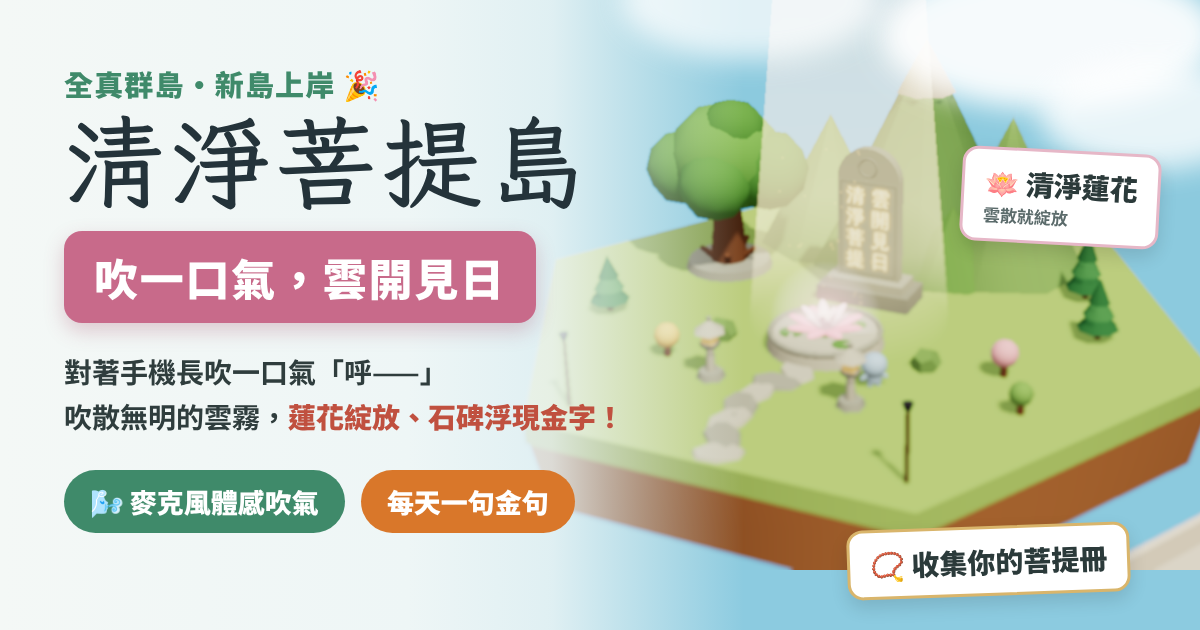
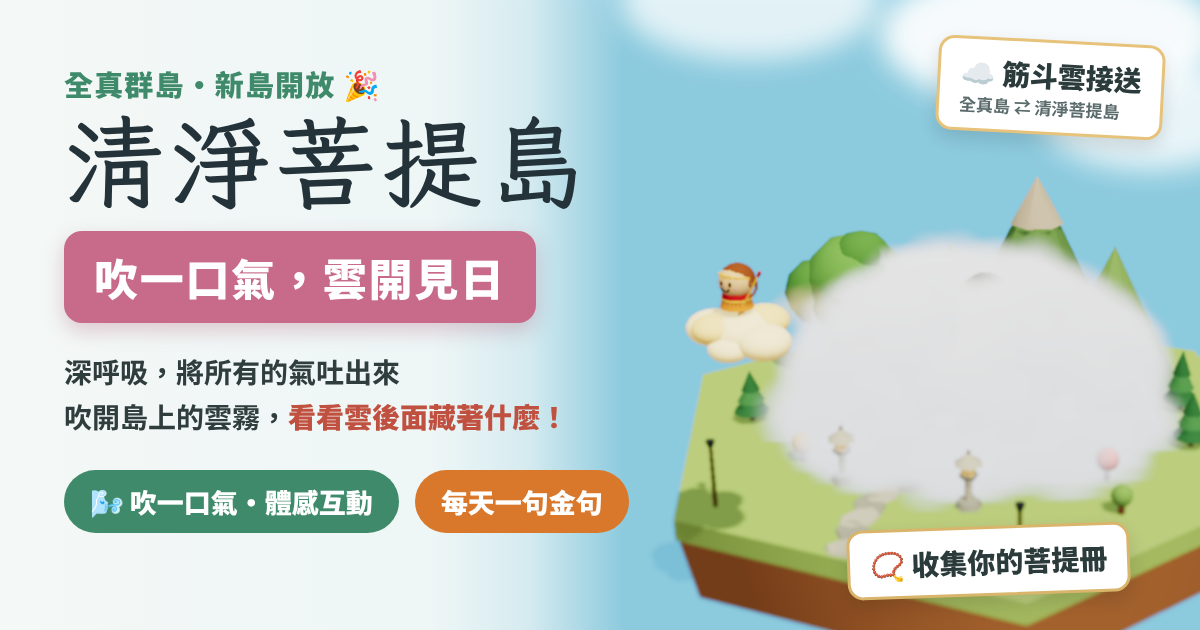
全真群島 v261105.01：清淨菩提島正式開放、新增筋斗雲（Q 版齊天大聖）往返全真島
- PT_LIVE 改成 true：拆掉施工圍籬，徽章露出、造訪統計開始記錄
- 筋斗雲：全真島 ⇄ 清淨菩提島來回飛、越過高鐵橋；雲上是 Q 版齊天大聖（同一個豆子身基底）；雲尾像排氣一樣噴出煙霧後消散；點了就飛到清淨菩提島
- 分享頁 islands/puti/ 換新預覽圖（og-puti.png?v=2）：雲霧還蓋著島、筋斗雲在旁邊，不劇透；說明文字同步

Claude-Session: https://claude.ai/code/session_01CYjxtCchQiC7GkoK3dAJL5

diff --git a/islands/index.html b/islands/index.html
@@ -634,7 +634,7 @@
   <p class="count hits-count" id="hitsLine">👣 已經有 <img id="hitsImg" alt="累計造訪人次" height="18" src="https://hits.sh/steven4dev.github.io/yiguandao-2027-course/islands.svg?style=flat-square&amp;label=%E4%BA%BA%E6%AC%A1&amp;color=d9a43a&amp;labelColor=3a3f5a" onerror="this.parentNode.hidden = true"> 來逛過群島</p>
   <div class="boards"><a class="board" href="https://forms.gle/PG7yAsyz1r4unXXZ8" target="_blank" rel="noopener">🛶 我要登島</a><button class="board board-visit" id="visitBtn" type="button">👀 我要觀摩</button></div>
   <span class="status" id="status" data-state="backup" role="button" tabindex="0" title="點一下重新讀取"><i></i><span id="statusText">讀取資料中…</span></span>
-  <span class="ver">v261104.02</span>
+  <span class="ver">v261105.01</span>
   </div></div>
 </div>
 
@@ -4878,7 +4878,7 @@ addEventListener('keydown', (e) => { if (e.key === 'Escape' && !$('jsScroll').hi
 // 跟濟世靈山島一樣先封起來：一般人看到施工圍籬和「施工中」，不能吹。
 // 測試的人在網址加上 ?puti=測試碼（例如 islands/?puti=ptq-5m2w#puti）打開測試模式，記在那支手機上；?puti=off 關掉。
 // 正式開放時把 PT_LIVE 改成 true，圍籬就拆掉、大家都能吹。
-const PT_LIVE = false;
+const PT_LIVE = true;   // 2026/11/05 正式開放
 const PT_TEST_TOKEN = 'ptq-5m2w', PT_TEST_KEY = 'islands-puti-test';
 const ptTester = (() => {
   try {
@@ -5539,6 +5539,122 @@ document.getElementById('ptCard').addEventListener('click', (e) => {
 });
 addEventListener('keydown', (e) => { if (e.key === 'Escape' && !$('ptCard').hidden) ptCloseCard(); });
 
+/* ---------- 筋斗雲：一朵金色的雲在全真島和清淨菩提島之間來回飛，雲上站著一位 Q 版的齊天大聖（跟島上夥伴同一個豆子身基底） ----------
+   （孫悟空出自古典小說《西遊記》；這裡是群島自己的 Q 版造型：豆子身、金箍、虎皮裙、金箍棒）
+   去程從全真島後方出發，往上拱過高鐵橋，停在菩提島的小徑上空；停一下再飛回來。點雲或大聖就飛到清淨菩提島 */
+const kinto = new THREE.Group();
+kinto.userData.noMerge = true;
+kinto.visible = ptOpen;
+scene.add(kinto);
+const kintoHit = [];
+{
+  // 雲：一團暖白帶金的雲朵，後面拖一條捲捲的雲尾
+  const cloudM = new THREE.MeshLambertMaterial({ color: '#fff4cf', emissive: '#ffd36a', emissiveIntensity: 0.28 });
+  const cloudM2 = new THREE.MeshLambertMaterial({ color: '#ffe9a8', emissive: '#f2b84a', emissiveIntensity: 0.22 });
+  const CL = new THREE.Group(); kinto.add(CL); kinto.userData.cloud = CL;
+  for (const [x, y, z, r, m] of [[0, 0, 0, 1.05, cloudM], [0.95, -0.08, 0.15, 0.78, cloudM], [-0.95, -0.1, 0.1, 0.8, cloudM], [0.35, 0.2, -0.6, 0.72, cloudM2], [-0.4, 0.15, 0.65, 0.66, cloudM2], [0.2, -0.25, 0.75, 0.6, cloudM]]) {
+    const s = mesh(new THREE.SphereGeometry(r, 16, 12), m, x, y, z, CL, false); s.scale.y = 0.62;
+  }
+  // 齊天大聖：臉是膚色、頭頂和後腦勺一圈棕色毛、兩隻圓耳朵、金箍、虎皮裙、金箍棒、一條捲尾巴
+  const wk = figure(lam('#f3d2a2'), '', false);
+  wk.position.set(0, 0.62, 0.15); wk.scale.setScalar(1.45); kinto.add(wk); kinto.userData.wk = wk;   // 腳踩在雲朵上緣 kinto.add(wk); kinto.userData.wk = wk;
+  const g = wk.children[0], fur = lam('#9a5b2e'), gold = lam('#f2c14e', { emissive: '#8a5a00', emissiveIntensity: 0.35 });
+  const cap = mesh(new THREE.SphereGeometry(0.54, 22, 12, 0, Math.PI * 2, 0, Math.PI * 0.42), fur, 0, 0.93, -0.06, g, false); cap.rotation.x = -0.55;
+  mesh(new THREE.SphereGeometry(0.5, 18, 12, 0, Math.PI * 2, Math.PI * 0.35, Math.PI * 0.4), fur, 0, 0.98, -0.08, g, false).rotation.x = Math.PI;   // 後腦勺
+  for (const sx of [-1, 1]) { const e = mesh(dotGeo, fur, sx * 0.5, 0.97, 0, g, false); e.scale.set(0.09, 0.12, 0.07); mesh(dotGeo, lam('#e8b08a'), sx * 0.53, 0.97, 0.02, g, false).scale.set(0.05, 0.07, 0.04); }
+  const band = mesh(new THREE.TorusGeometry(0.47, 0.035, 8, 32), gold, 0, 1.12, 0.02, g, false); band.rotation.x = Math.PI / 2 - 0.22;   // 金箍
+  mesh(new THREE.TorusGeometry(0.06, 0.02, 6, 12), gold, -0.1, 1.2, 0.47, g, false);   // 金箍前面的小捲
+  mesh(new THREE.TorusGeometry(0.06, 0.02, 6, 12), gold, 0.1, 1.2, 0.47, g, false);
+  // 上衣（紅）＋虎皮裙（橘底黑紋）＋黃腰帶
+  const tigerTex = canvasTex(128, 32, (c) => { c.fillStyle = '#f0a03a'; c.fillRect(0, 0, 128, 32); c.fillStyle = '#3a2410'; for (let i = 0; i < 8; i++) { c.beginPath(); c.moveTo(i * 16 + 2, 0); c.lineTo(i * 16 + 8, 0); c.lineTo(i * 16 + 5, 22); c.fill(); } }, true);
+  mesh(new THREE.CylinderGeometry(0.4, 0.44, 0.28, 24, 1, true), new THREE.MeshLambertMaterial({ color: '#c8312b', side: THREE.DoubleSide }), 0, 0.56, 0, g, false);
+  const skirt = mesh(new THREE.CylinderGeometry(0.42, 0.5, 0.26, 24, 1, true), new THREE.MeshLambertMaterial({ map: tigerTex, side: THREE.DoubleSide }), 0, 0.3, 0, g, false);
+  skirt.material.map.repeat.set(3, 1);
+  mesh(new THREE.TorusGeometry(0.42, 0.04, 6, 24), lam('#f2c14e'), 0, 0.44, 0, g, false).rotation.x = Math.PI / 2;
+  // 尾巴：從屁股往後翹再捲起來
+  const tailPts = [[0, 0.3, -0.35], [0, 0.25, -0.65], [0.05, 0.45, -0.85], [0.08, 0.75, -0.8], [0.02, 0.85, -0.6]].map(([x, y, z]) => new THREE.Vector3(x, y, z));
+  mesh(new THREE.TubeGeometry(new THREE.CatmullRomCurve3(tailPts), 20, 0.045, 6), fur, 0, 0, 0, g, false);
+  // 金箍棒：右手斜握，兩頭紅色；樞紐在手上，停靠時會轉棒子
+  const staff = new THREE.Group(); staff.position.set(0.48, 0.5, 0.18); g.add(staff); kinto.userData.staff = staff;
+  mesh(new THREE.CylinderGeometry(0.035, 0.035, 2.1, 8), gold, 0, 0, 0, staff, false);
+  for (const y of [-1.02, 1.02]) mesh(new THREE.CylinderGeometry(0.05, 0.05, 0.16, 8), lam('#c8312b'), 0, y, 0, staff, false);
+  staff.rotation.z = -0.5;
+  wk.userData.arms[1].rotation.z = 0.2;   // 右手往前舉著棒子
+  wk.userData.arms[0].rotation.z = -1.9;  // 左手舉高，像在遠眺（手搭涼棚）
+  kinto.traverse((m) => { if (m.isMesh) { kintoHit.push(m); m.castShadow = true; } });
+}
+// 雲尾：像汽車排氣一樣，從雲後面一陣一陣噴出柔邊的煙霧，往後飄、越散越開、越來越淡，最後消散（不黏在雲上）
+const kintoSmokeTex = canvasTex(64, 64, (c) => { const gr = c.createRadialGradient(32, 32, 0, 32, 32, 32); gr.addColorStop(0, 'rgba(255,248,225,0.9)'); gr.addColorStop(0.45, 'rgba(255,240,205,0.45)'); gr.addColorStop(1, 'rgba(255,240,205,0)'); c.fillStyle = gr; c.fillRect(0, 0, 64, 64); });
+const kintoPuffs = Array.from({ length: 64 }, () => {
+  const m = new THREE.Sprite(new THREE.SpriteMaterial({ map: kintoSmokeTex, color: '#fff6dc', transparent: true, opacity: 0, depthWrite: false }));
+  m.visible = false; scene.add(m);
+  return { m, age: 9, life: 1, vel: new THREE.Vector3(), size: 1, spin: 0 };
+});
+let kintoPuffI = 0, kintoPuffAt = 0;
+// 航線：全真島後方上空 ⇄ 菩提島小徑上空；中段往上拱，越過高鐵橋和火車
+const KINTO_A = new THREE.Vector3(), KINTO_B = new THREE.Vector3();
+{
+  const dx = ptIsl.x - TEMPLE.x, dz = ptIsl.z - TEMPLE.z, d = Math.hypot(dx, dz), ux = dx / d, uz = dz / d;
+  KINTO_A.set(TEMPLE.x + ux * 13.5, 9, TEMPLE.z + uz * 13.5);
+  KINTO_B.set(ptIsl.x - ux * 7.5, 6.5, ptIsl.z - uz * 7.5);
+}
+const KLEG = 14, KDWELL = 4, KCYCLE = 2 * (KLEG + KDWELL), KARC = 10;
+const kintoPos = (k, out) => out.lerpVectors(KINTO_A, KINTO_B, k).setY(KINTO_A.y + (KINTO_B.y - KINTO_A.y) * k + Math.sin(k * Math.PI) * KARC);
+const kintoTmp = new THREE.Vector3(), kintoAhead = new THREE.Vector3();
+kintoPos(0, kinto.position);
+kinto.rotation.y = Math.atan2(KINTO_B.x - KINTO_A.x, KINTO_B.z - KINTO_A.z);
+animators.push((t, dt = 1 / 60) => {
+  if (!kinto.visible) return;
+  const c = (t + 2) % KCYCLE;   // 錯開一點，不要剛打開網頁就停著
+  let k, back = false, moving = true;
+  if (c < KDWELL) { k = 0; moving = false; }
+  else if (c < KDWELL + KLEG) k = smooth((c - KDWELL) / KLEG);
+  else if (c < 2 * KDWELL + KLEG) { k = 1; back = true; moving = false; }
+  else { k = 1 - smooth((c - 2 * KDWELL - KLEG) / KLEG); back = true; }
+  kintoPos(k, kinto.position);
+  kinto.position.y += Math.sin(t * 2.2) * 0.25;   // 雲上下輕輕浮動
+  // 朝著要去的方向；爬升、下降時雲頭跟著仰、俯
+  kintoPos(Math.min(1, Math.max(0, k + (back ? -0.01 : 0.01))), kintoAhead);
+  const yaw = Math.atan2(KINTO_B.x - KINTO_A.x, KINTO_B.z - KINTO_A.z) + (back ? Math.PI : 0);
+  kinto.rotation.y = yaw;
+  const pitch = moving ? -Math.atan2(kintoAhead.y - kinto.position.y + Math.sin(t * 2.2) * 0.25, Math.hypot(kintoAhead.x - kinto.position.x, kintoAhead.z - kinto.position.z) + 1e-4) * 0.6 : 0;
+  kinto.rotation.x = THREE.MathUtils.damp(kinto.rotation.x, pitch, 4, 1 / 60);
+  kinto.rotation.z = Math.sin(t * 1.3) * 0.05;
+  const cl = kinto.userData.cloud; cl.rotation.y = Math.sin(t * 0.8) * 0.08;
+  // 停靠時大聖轉金箍棒、左手放下來揮一揮；飛行時手搭涼棚往前看
+  const u = kinto.userData, wk = u.wk;
+  if (moving) { u.staff.rotation.set(0, 0, -0.5); wk.userData.arms[0].rotation.z = THREE.MathUtils.damp(wk.userData.arms[0].rotation.z, -1.9, 6, 1 / 60); wk.rotation.y = 0; }
+  else { u.staff.rotation.set(0, 0, -0.5 + t * 6); wk.userData.arms[0].rotation.z = -2.4 + Math.sin(t * 8) * 0.35; wk.rotation.y = Math.sin(t * 0.7) * 0.5; }
+  // 飛行時從雲後面噴出煙霧：剛噴出來小而濃，往後、往外飄開，越來越大、越來越淡。
+  // 用實際經過的時間算：畫面卡頓、兩格之間雲飛得比較遠時，在中間補噴幾陣，煙霧才會連成一條
+  const kdt = Math.min(0.25, Math.max(0, t - (kinto.userData.lastT ?? t))); kinto.userData.lastT = t;
+  const kPrev = kinto.userData.prev || (kinto.userData.prev = kinto.position.clone());
+  if (moving) {
+    const n = Math.min(6, Math.floor((t - kintoPuffAt) / 0.035));
+    for (let i = 1; i <= n; i++) {
+      const p = kintoPuffs[kintoPuffI++ % kintoPuffs.length], f = i / n;
+      kintoTmp.set((Math.random() - 0.5) * 0.5, -0.1 + (Math.random() - 0.5) * 0.3, -1.6).applyEuler(kinto.rotation).add(kintoAhead.lerpVectors(kPrev, kinto.position, f));
+      p.m.position.copy(kintoTmp);
+      p.vel.set((Math.random() - 0.5) * 0.8, 0.15 + Math.random() * 0.3, -1.2 - Math.random() * 0.8).applyEuler(kinto.rotation);
+      p.age = (1 - f) * kdt; p.life = 1.1 + Math.random() * 0.6; p.size = 0.7 + Math.random() * 0.4; p.m.visible = true;
+      p.m.material.rotation = Math.random() * 6.28; p.spin = (Math.random() - 0.5) * 0.8;
+    }
+    if (n) kintoPuffAt = t;
+  } else kintoPuffAt = t;
+  kPrev.copy(kinto.position);
+  for (const p of kintoPuffs) {
+    if (!p.m.visible) continue;
+    p.age += kdt;
+    const a = p.age / p.life;
+    if (a >= 1) { p.m.visible = false; continue; }
+    p.m.position.addScaledVector(p.vel, kdt);
+    p.vel.multiplyScalar(Math.pow(0.16, kdt));   // 噴出去後慢慢減速、停在空中散掉
+    p.m.scale.setScalar(p.size * (1 + a * 2.6));
+    p.m.material.rotation += p.spin * kdt;
+    p.m.material.opacity = 0.7 * Math.min(1, a * 6) * (1 - a) * (1 - a);
+  }
+});
+
 function addTag(isl, text, cls, h, onClick = () => select(isl.key)) {
   const b = document.createElement('button');
   b.className = 'tag ' + cls;
@@ -6149,7 +6265,7 @@ renderer.domElement.addEventListener('pointermove', (e) => {
     hoverQueued = false;
     ndc.set((e.clientX / innerWidth) * 2 - 1, -(e.clientY / innerHeight) * 2 + 1);
     ray.setFromCamera(ndc, camera);
-    renderer.domElement.style.cursor = ray.intersectObjects(cadreHit.concat(plazaHit, raftHit, partyHit, lookoutHit, teacherHit, masterHit, bottleHit, visitorHit), false).length ? 'pointer' : '';
+    renderer.domElement.style.cursor = ray.intersectObjects(cadreHit.concat(plazaHit, raftHit, kintoHit, partyHit, lookoutHit, teacherHit, masterHit, bottleHit, visitorHit), false).length ? 'pointer' : '';
   });
 });
 renderer.domElement.addEventListener('pointerup', (e) => {
@@ -6158,6 +6274,7 @@ renderer.domElement.addEventListener('pointerup', (e) => {
   ray.setFromCamera(ndc, camera);
   // 先打到任何物件，再往上找它屬於哪座島
   if (ray.intersectObjects(raftHit, false).length) { openSignup(); return; }
+  if (kinto.visible && ray.intersectObjects(kintoHit, false).length) { ptGc('動作/筋斗雲'); select('puti'); return; }   // 筋斗雲：飛到清淨菩提島
   // 中一島的涼亭＝凝聚晚會報名處：報名期間點了開報名表，截止後就打開中一島的介紹
   if (ray.intersectObjects(partyHit, false).length) { if (zyIsl.formOpen) window.open(PARTY_FORM, '_blank', 'noopener'); else select('zhongyi'); return; }
   const bh = ray.intersectObjects(bottleHit, false)[0];
@@ -7814,7 +7931,7 @@ const ease = (x) => (x < 0.5 ? 4 * x * x * x : 1 - Math.pow(-2 * x + 2, 3) / 2);
    原本要畫四千多次的場景，合併後少掉一大半，手機（例如 iPhone）會順很多 */
 const NO_MERGE_KEYS = ['ring', 'arms', 'slot', 'person', 'teacher', 'master', 'bottle', 'noMerge', 'detail'];
 function staticMerge() {
-  const hits = new Set([cadreHit, plazaHit, raftHit, partyHit, lookoutHit, teacherHit, masterHit, bottleHit, visitorHit].flat());
+  const hits = new Set([cadreHit, plazaHit, raftHit, kintoHit, partyHit, lookoutHit, teacherHit, masterHit, bottleHit, visitorHit].flat());
   const visChain = (o) => { for (let x = o; x; x = x.parent) if (!x.visible) return false; return true; };
   const cand = [];
   scene.traverse((o) => {

diff --git a/islands/puti/index.html b/islands/puti/index.html
@@ -5,18 +5,18 @@
 <meta name="viewport" content="width=device-width, initial-scale=1">
 <meta name="robots" content="noindex, nofollow">
 <title>清淨菩提島｜全真群島</title>
-<meta name="description" content="全真群島新島上岸：清淨菩提島（雲開見日洲）。對著手機長吹一口氣，吹散無明的雲霧，蓮花綻放、石碑浮現金字，每天領一句破關金句。">
+<meta name="description" content="全真群島新島開放：清淨菩提島（雲開見日洲）。深呼吸，將所有的氣吐出來，吹開島上無明的雲霧，看看雲後面藏著什麼，每天領一句破關金句。">
 <meta property="og:type" content="website">
 <meta property="og:site_name" content="全真群島・2027 全真社青">
 <meta property="og:title" content="吹一口氣，雲開見日｜全真群島・清淨菩提島">
-<meta property="og:description" content="對著手機長吹一口氣「呼——」，把遮住靈山的雲霧吹散：蓮花綻放、石碑浮現金字，領一句破關金句，收集你的菩提冊。">
+<meta property="og:description" content="深呼吸，將所有的氣吐出來，吹向手機前島上的雲霧——雲後面藏著什麼？吹開就知道。每天一句破關金句，收集你的菩提冊；全真島還有筋斗雲接送。">
 <meta property="og:url" content="https://steven4dev.github.io/yiguandao-2027-course/islands/puti/">
-<meta property="og:image" content="https://steven4dev.github.io/yiguandao-2027-course/islands/puti/og-puti.png?v=1">
-<meta property="og:image:secure_url" content="https://steven4dev.github.io/yiguandao-2027-course/islands/puti/og-puti.png?v=1">
+<meta property="og:image" content="https://steven4dev.github.io/yiguandao-2027-course/islands/puti/og-puti.png?v=2">
+<meta property="og:image:secure_url" content="https://steven4dev.github.io/yiguandao-2027-course/islands/puti/og-puti.png?v=2">
 <meta property="og:image:type" content="image/png">
 <meta property="og:image:width" content="1200">
 <meta property="og:image:height" content="630">
-<meta property="og:image:alt" content="清淨菩提島：智慧石碑浮現金字、蓮池裡的蓮花綻放、天上落下一道光">
+<meta property="og:image:alt" content="清淨菩提島：整座島被雲霧蓋住，旁邊一朵筋斗雲載著齊天大聖">
 <meta property="og:locale" content="zh_TW">
 <meta name="twitter:card" content="summary_large_image">
 <!-- 這頁只負責 LINE／Facebook 分享時的預覽圖；有人點進來就直接送到群島的清淨菩提島 -->

diff --git a/README.md b/README.md
@@ -47,7 +47,7 @@ https://steven4dev.github.io/yiguandao-2027-course/islands/（LINE 預覽圖 `is
 - 幹部島以各組命名（學術島、總務島…）；公關禮節島負責迎賓，放在佛堂正門口前方，路線從這裡走到第一堂課
 - 講師：課程島和下午島前緣站著講師（深青綠外套＋小黑板），點了或搜尋名字可以看單位、這堂課的日期主題，以及他也在哪些島上課
 - 濟世靈山島（外海，好愛島和法會島方向中間）：**目前施工中**，一般人只看到施工圍籬；網址加測試碼（寫在 `islands/index.html` 的 `JS_TEST_TOKEN`）打開測試模式，正式開放時把 `JS_LIVE` 改成 `true`。濟公活佛體感抽籤。淨手洗心（在靈泉上搓 2 秒）→ 誠心參拜（手機直立貼胸叩首三次）→ 搖晃籤筒 → 傾斜出籤，展開籤詩卷軸；手機用陀螺儀、加速度計（iPhone 按「開始參拜」時會詢問權限），電腦用滑鼠拖動代替並附 QR code。每支手機每天一支，抽過的收進籤冊，可以分享到 LINE（分享連結 `islands/jishi/`）。108 支籤詩（6 類各 18 支）寫在 `islands/jishi/fortunes.js`，目前是示範文案，換成道場審定的正式慈語後把 `JS_DEMO` 改成 `false`；手感門檻在同一檔的 `JT`
-- 清淨菩提島（外海，全真島正後方、高鐵橋外面）：**目前施工中**，一般人只看到施工圍籬；網址加測試碼（寫在 `islands/index.html` 的 `PT_TEST_TOKEN`）打開測試模式，正式開放時把 `PT_LIVE` 改成 `true`。吹散無明、雲開見日：整座島被雲霧蓋住，按「開始吹散無明」→ 開啟麥克風 → 對著麥克風長吹一口氣，雲霧由外往內被吹散，蓮花綻放、石碑浮現金字，畫面上方展開破關金句。吹氣偵測用 Web Audio 的 AnalyserNode 即時分析音量、頻譜平坦度、低頻占比（不錄音、不上傳），說話聲不算；不能用麥克風（拒絕授權、LINE 內建瀏覽器、沒有麥克風）時改成按住吹氣。每天一句，收進「菩提冊」，分享連結 `islands/puti/`。金句寫在 `islands/index.html` 的 `PT_QUOTES`，目前是示範文案，換成道場審定的正式慈語後把 `PT_DEMO` 改成 `false`；吹氣手感門檻在同一檔的 `QT`。React／R3F 版的參考程式碼在 `docs/puti-island/`
+- 清淨菩提島（外海，全真島正後方、高鐵橋外面）：**2026/11/05 正式開放**（`islands/index.html` 的 `PT_LIVE` 是 `true`；改回 `false` 就會重新圍起施工圍籬，測試碼 `PT_TEST_TOKEN` 仍可打開測試模式、不限每天一次）。吹散無明、雲開見日：整座島被雲霧蓋住，按「開始吹散無明」→ 開啟麥克風 → 對著麥克風長吹一口氣，雲霧由外往內被吹散，蓮花綻放、石碑浮現金字，畫面上方展開破關金句。吹氣偵測用 Web Audio 的 AnalyserNode 即時分析音量、頻譜平坦度、低頻占比（不錄音、不上傳），說話聲不算；不能用麥克風（拒絕授權、LINE 內建瀏覽器、沒有麥克風）時改成按住吹氣。每天一句，收進「菩提冊」，分享連結 `islands/puti/`。金句寫在 `islands/index.html` 的 `PT_QUOTES`，目前是示範文案，換成道場審定的正式慈語後把 `PT_DEMO` 改成 `false`；吹氣手感門檻在同一檔的 `QT`。全真島和清淨菩提島之間有一朵筋斗雲來回飛（雲上是 Q 版齊天大聖），點了就飛到清淨菩提島。React／R3F 版的參考程式碼在 `docs/puti-island/`
 - 外圈：其他 7 座幹部島；點幹部小人偶或名單可以看職稱、姓名、報名狀態與執掌；左後方是高鐵高架橋
 - 聲音：預設開啟，打開網頁後點畫面任何地方就開始播放。漫步調的電鋼琴輕音樂；音效有高鐵轟隆轟隆經過、熱氣球噴火，以及每座島的特色聲音（收銀台、炒菜、木魚、風鈴…，點進那座島才聽得到）。全部用 Web Audio 即時合成，沒有音檔、沒有版權問題
 - 資料：直接讀取報名表的 Google 表單回覆（跟報名分析頁同一份），每 5 分鐘或切回分頁時自動更新，連不上時改讀 `signup/data.json` 備份

diff --git a/islands/CHANGELOG.md b/islands/CHANGELOG.md
@@ -3,6 +3,12 @@
 網頁左上角品牌卡最下面的淡色小字就是版本編號，格式跟褪下仙衣一樣是 `v年月日.當天第幾版`，例如 `v261025.01` 代表 2026/10/25 的第 1 版。
 打開網頁看到的編號和這裡最上面的一筆相同，就代表已經更新成功；如果還是舊編號，等幾分鐘再重新整理。
 
+## v261105.01
+- 🪷 清淨菩提島正式開放：拆掉施工圍籬，大家都能吹散雲霧、領破關金句；標籤、資訊卡、導覽目錄、搜尋都換成正式內容，「🪷 雲開見日」「📿 菩提冊集滿」兩個徽章在徽章牆上露出來，造訪與互動開始記進造訪統計。每支手機每天一句。
+- ☁ 新增筋斗雲：一朵金色的雲在全真島和清淨菩提島之間來回飛（單程約 14 秒、兩頭各停 4 秒），中段往上拱、從高鐵橋和火車上面越過。雲上站著一位 Q 版齊天大聖（跟島上夥伴同一個豆子身基底，加上棕毛、圓耳朵、金箍、紅上衣、虎皮裙、捲尾巴、金箍棒）：飛行時手搭涼棚往前看，停靠時轉金箍棒、揮手。雲後面像汽車排氣一樣一陣一陣噴出柔邊煙霧，往後飄、越散越開、越來越淡，最後消散。點筋斗雲或大聖就飛到清淨菩提島。
+- 分享連結 `islands/puti/` 換上新的 LINE 預覽圖（`og-puti.png?v=2`）：島還被雲霧蓋著、筋斗雲停在旁邊，不先劇透雲散之後的樣子；說明文字改成「深呼吸，將所有的氣吐出來，吹向手機前島上的雲霧——雲後面藏著什麼？吹開就知道」。
+- 金句仍是示範文案（面板標「示範慈語」），換成道場審定的正式慈語後把 `PT_DEMO` 改成 `false`。
+
 ## v261104.02
 - 濟世靈山島籤詩擴充到 108 支：分成修心、人際、家庭、感情、工作、解憂 6 類，每類 18 支，抽籤時 108 支完全隨機。籤詩改放在獨立檔案 `islands/jishi/fortunes.js`，審稿改字只要換這個檔案；原本 8 支示範籤保留，依類別重新編號（例如原第三籤「放下自在籤」→ 第九十一籤），已經抽過的人籤冊會自動轉換、不會不見。籤號寫成國字（第一百零八籤）。
 - 籤冊改成 6 類分段，每類 18 格、一排 6 格，抽過的格子亮起來，點一格再看一次籤詩。
